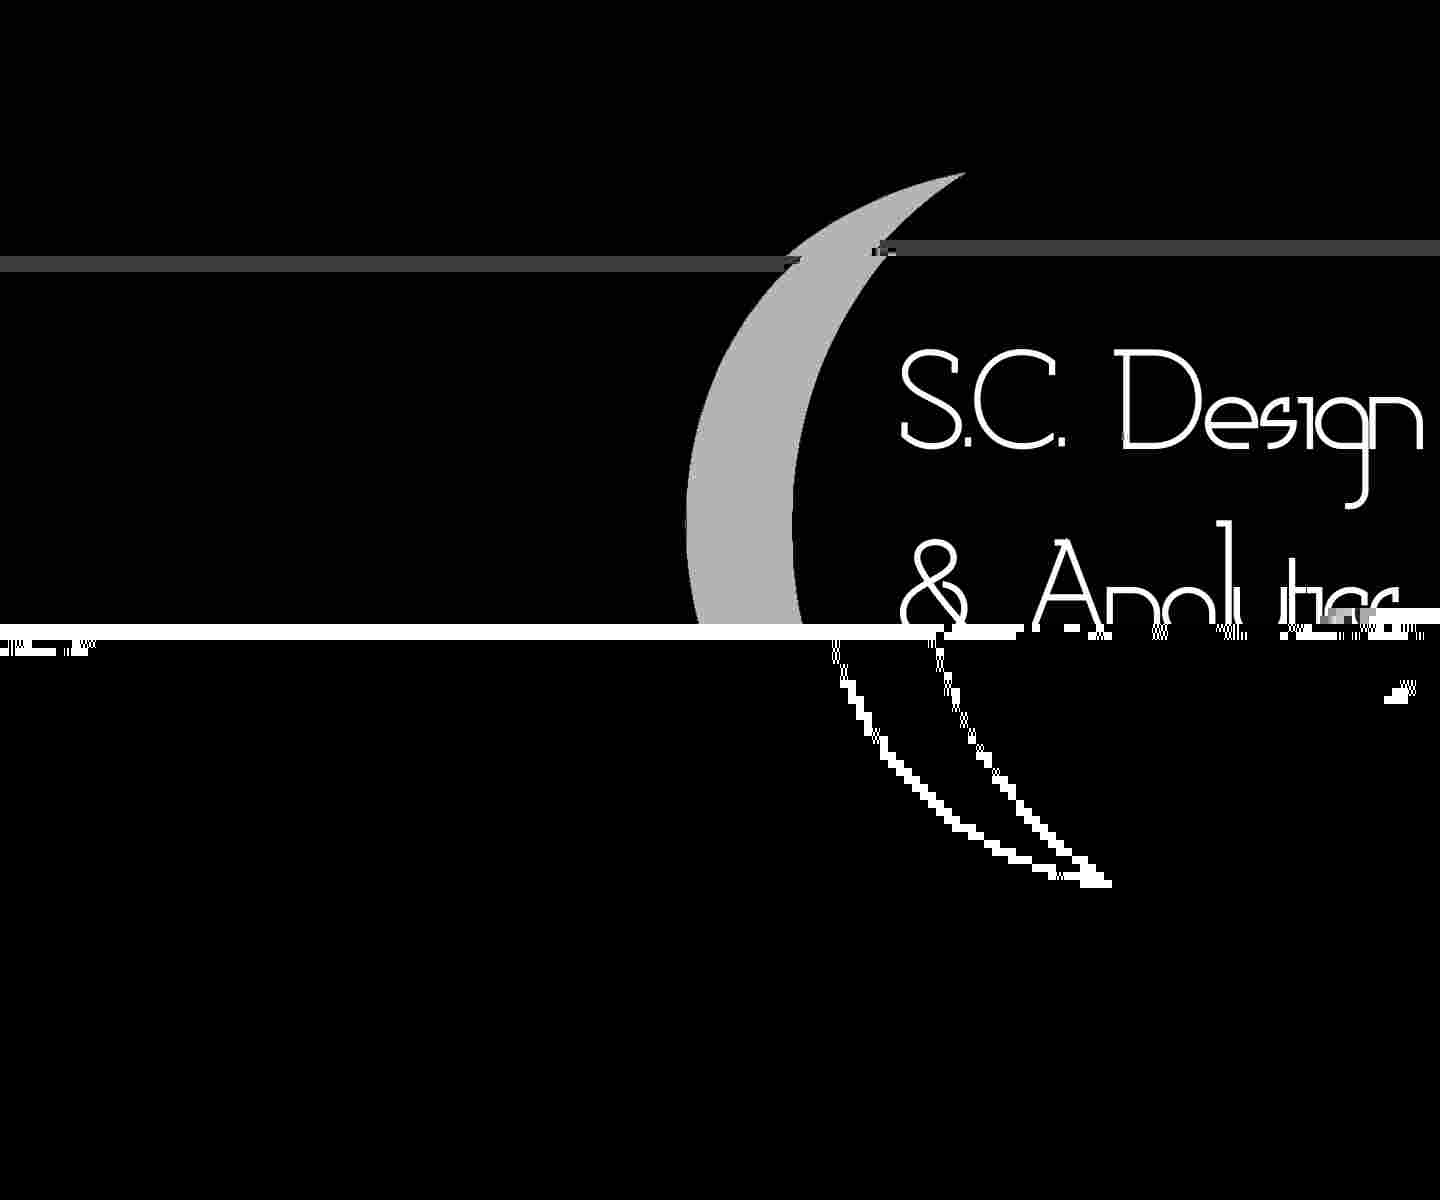
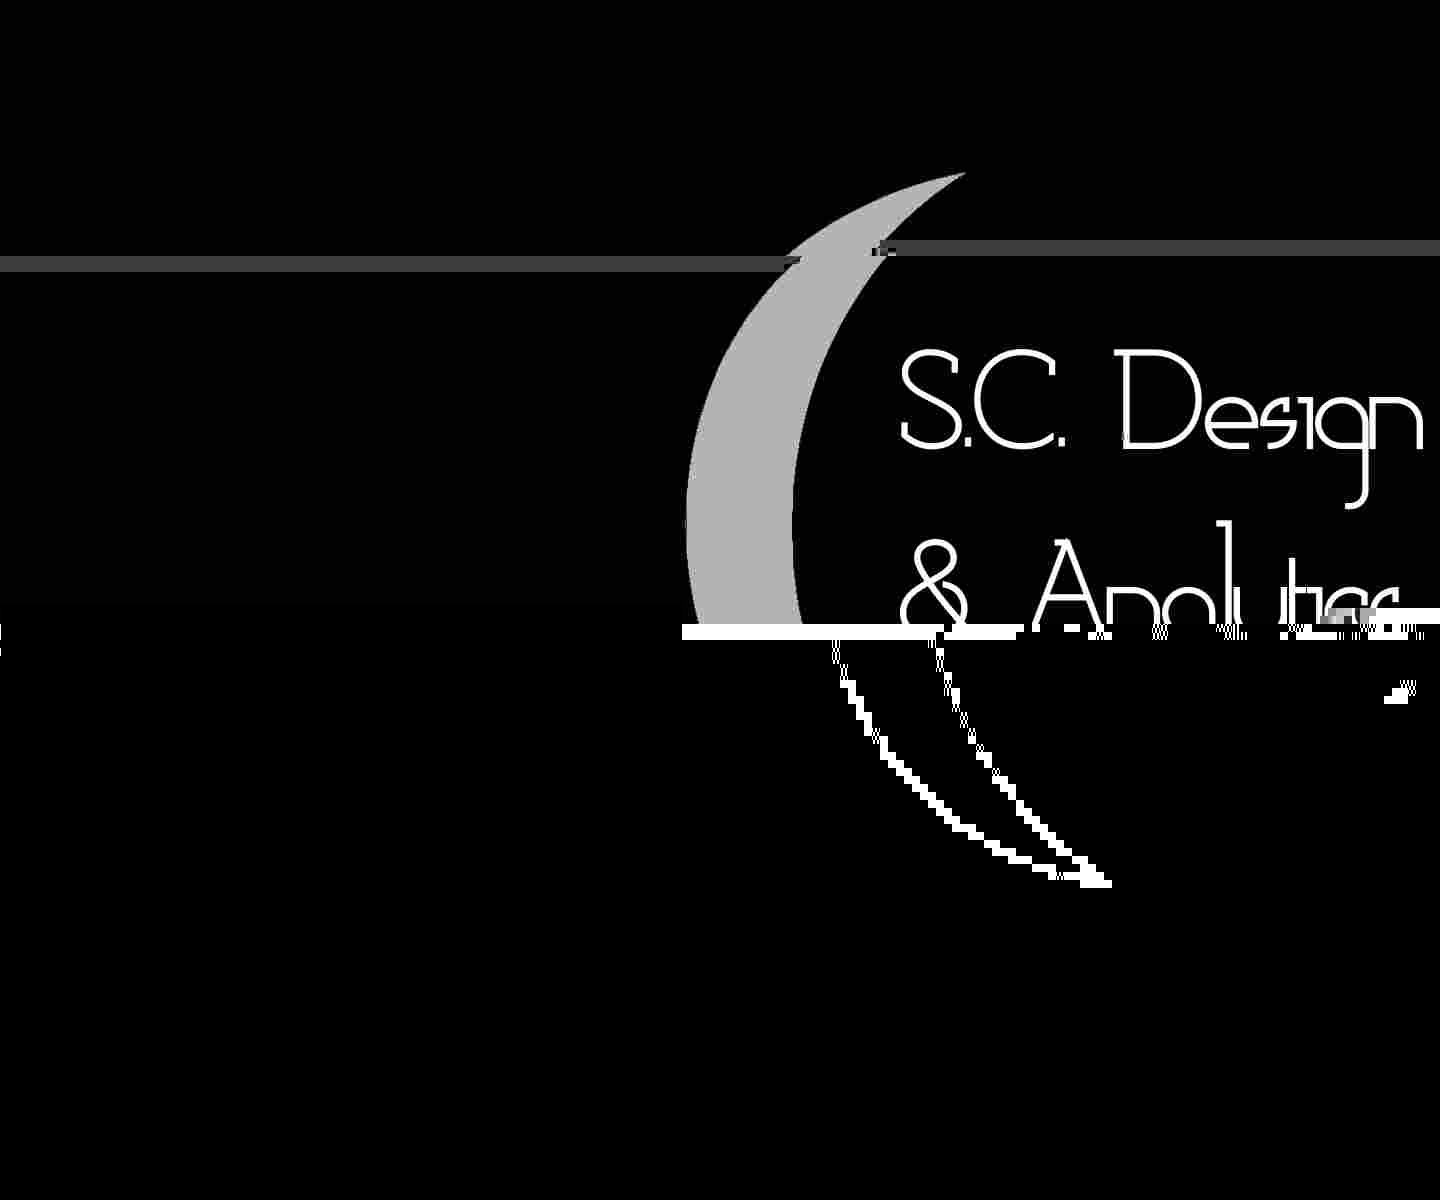
Updated moon background glitch images

Changed region(s): [[0.0, 0.4933, 0.4688, 0.555]]

diff --git a/index.html b/index.html
@@ -119,18 +119,6 @@
                             <li>
                                 <a href="#gallery">Gallery</a>
                             </li>
-                            <!--li>
-                                <a href="#services">Services</a>
-                            </li>
-                            <li>
-                                <a href="#testimonials">Testimonials</a>
-                            </li>
-                            <li>
-                                <a href="#clients">Clients</a>
-                            </li>
-                            <li>
-                                <a href="#pricing">Pricing</a>
-                            </li-->
                         </ul>
                     </nav>
                     <!--End of Main Navigation-->
@@ -319,10 +307,14 @@
 
                 <div class="col-2" style="padding-top: 80px;">
                     <div class="section-heading">
+                        <h2 class="section-title gray-txt">Parasite Extinction Assessment and Red List web app - <b>Coming soon</b></h2>
+                        <p class="section-subtitle gray-txt">Preprint coming soon</p>
+                    </div>
+                    <!--div class="section-heading">
                         <h2 class="section-title gray-txt">Parasite Vulnerability to Climate Change: an Evidence-Based Functional Trait Approach</h2>
                         <p class="section-subtitle gray-txt">Cizauskas et al. 2017</p>
                     </div>
-                    <p class="gray-txt"><strong>DOI: </strong>10.1098/rsos.160535</p>
+                    <p class="gray-txt"><strong>DOI: </strong>10.1098/rsos.160535</p-->
                     <!-- Just replace the Video ID "UYJ5IjBRlW8" with the ID of your video on YouTube (Found within the URL) -->
                     <!--a href="#" data-videoid="UYJ5IjBRlW8" data-videosite="youtube" class="button video link-lightbox">
                         WATCH VIDEO <i class="fa fa-play" aria-hidden="true"></i>
@@ -338,230 +330,11 @@
             <div style="height: 400px"></div>
 
         </div>
-        <!--End of Content Section-->
-
-        <!--Testimonials>
-        <aside id="testimonials" class="scrollto text-center" data-enllax-ratio=".2">
-
-            <div class="row clearfix">
-
-                <div class="section-heading">
-                    <h3>FEEDBACK</h3>
-                    <h2 class="section-title">What our customers are saying</h2>
-                </div>
-
-                <!--User Testimonial>
-                <blockquote class="col-3 testimonial classic">
-                    <img src="images/user-images/user-1.jpg" alt="User"/>
-                    <q>Lorem ipsum dolor sit amet, consectetur adipiscing elit, sed do eiusmod tempor incididunt ut
-                        labore
-                        et dolore magna aliqua</q>
-                    <footer>John Doe - Happy Customer</footer>
-                </blockquote>
-                <!-- End of Testimonial>
-
-                <!--User Testimonial>
-                <blockquote class="col-3 testimonial classic">
-                    <img src="images/user-images/user-2.jpg" alt="User"/>
-                    <q>Lorem ipsum dolor sit amet, consectetur adipiscing elit, sed do eiusmod tempor incididunt ut
-                        labore
-                        et dolore magna aliqua</q>
-                    <footer>Roslyn Doe - Happy Customer</footer>
-                </blockquote>
-                <!-- End of Testimonial>
-
-                <!--User Testimonial>
-                <blockquote class="col-3 testimonial classic">
-                    <img src="images/user-images/user-3.jpg" alt="User"/>
-                    <q>Lorem ipsum dolor sit amet, consectetur adipiscing elit, sed do eiusmod tempor incididunt ut
-                        labore
-                        et dolore magna aliqua</q>
-                    <footer>Thomas Doe - Happy Customer</footer>
-                </blockquote>
-                <!-- End of Testimonial>
-
-            </div>
-
-        </aside>
-        <!--End of Testimonials-->
-
-        <!--Clients>
-        <section id="clients" class="scrollto clearfix">
-            <div class="row clearfix">
-
-                <div class="col-3">
-
-                    <div class="section-heading">
-                        <h3>TRUST</h3>
-                        <h2 class="section-title">Companies who use our services</h2>
-                        <p class="section-subtitle">Lorem ipsum dolor sit amet, consectetur adipiscing elit, sed do
-                            eiusmod
-                            tempor incididunt ut labore et dolore magna aliqua. Ut enim ad minim veniam!</p>
-                    </div>
-
-                </div>
-
-                <div class="col-2-3">
-
-                    <a href="#" class="col-3">
-                        <img src="images/company-images/company-logo1.png" alt="Company"/>
-                        <div class="client-overlay"><span>Tree</span></div>
-                    </a>
-                    <a href="#" class="col-3">
-                        <img src="images/company-images/company-logo2.png" alt="Company"/>
-                        <div class="client-overlay"><span>Fingerprint</span></div>
-                    </a>
-                    <a href="#" class="col-3">
-                        <img src="images/company-images/company-logo3.png" alt="Company"/>
-                        <div class="client-overlay"><span>The Man</span></div>
-                    </a>
-                    <a href="#" class="col-3">
-                        <img src="images/company-images/company-logo4.png" alt="Company"/>
-                        <div class="client-overlay"><span>Mustache</span></div>
-                    </a>
-                    <a href="#" class="col-3">
-                        <img src="images/company-images/company-logo5.png" alt="Company"/>
-                        <div class="client-overlay"><span>Goat</span></div>
-                    </a>
-                    <a href="#" class="col-3">
-                        <img src="images/company-images/company-logo6.png" alt="Company"/>
-                        <div class="client-overlay"><span>Justice</span></div>
-                    </a>
-                    <a href="#" class="col-3">
-                        <img src="images/company-images/company-logo7.png" alt="Company"/>
-                        <div class="client-overlay"><span>Ball</span></div>
-                    </a>
-                    <a href="#" class="col-3">
-                        <img src="images/company-images/company-logo8.png" alt="Company"/>
-                        <div class="client-overlay"><span>Cold</span></div>
-                    </a>
-
-                    <a href="#" class="col-3">
-                        <img src="images/company-images/company-logo9.png" alt="Company"/>
-                        <div class="client-overlay"><span>Cold</span></div>
-                    </a>
-
-                </div>
-
-            </div>
-        </section>
-        <!--End of Clients-->
-
-        <!--Pricing Tables>
-        <section id="pricing" class="secondary-color text-center scrollto clearfix ">
-            <div class="row clearfix">
-
-                <div class="section-heading">
-                    <h3>YOUR CHOICE</h3>
-                    <h2 class="section-title">We have the right package for you</h2>
-                </div>
-
-                <!--Pricing Block>
-                <div class="pricing-block col-3 wow fadeInUp" data-wow-delay="0.4s">
-                    <div class="pricing-block-content">
-                        <h3>Personal</h3>
-                        <p class="pricing-sub">The standard version</p>
-                        <div class="pricing">
-                            <div class="price"><span>$</span>19</div>
-                            <p>Lorem ipsum dolor sit amet, consectetur adipiscing elit</p>
-                        </div>
-                        <ul>
-                            <li>5 Downloads</li>
-                            <li>2 Extensions</li>
-                            <li>Tutorials</li>
-                            <li>Forum Support</li>
-                            <li>1 year free updates</li>
-                        </ul>
-                        <a href="#" class="button">BUY TODAY</a>
-                    </div>
-                </div>
-                <!--End Pricing Block>
-
-                <!--Pricing Block>
-                <div class="pricing-block featured col-3 wow fadeInUp" data-wow-delay="0.6s">
-                    <div class="pricing-block-content">
-                        <h3>Student</h3>
-                        <p class="pricing-sub">Most popular choice</p>
-                        <div class="pricing">
-                            <div class="price"><span>$</span>29</div>
-                            <p>Lorem ipsum dolor sit amet, consectetur adipiscing elit</p>
-                        </div>
-                        <ul>
-                            <li>15 Downloads</li>
-                            <li>5 Extensions</li>
-                            <li>Tutorials with Files</li>
-                            <li>Forum Support</li>
-                            <li>2 years free updates</li>
-                        </ul>
-                        <a href="#" class="button">BUY TODAY</a>
-                    </div>
-                </div>
-                <!--End Pricing Block>
-
-                <!--Pricing Block>
-                <div class="pricing-block col-3 wow fadeInUp" data-wow-delay="0.8s">
-                    <div class="pricing-block-content">
-                        <h3>Business</h3>
-                        <p class="pricing-sub">For the whole team</p>
-                        <div class="pricing">
-                            <div class="price"><span>$</span>49</div>
-                            <p>Lorem ipsum dolor sit amet, consectetur adipiscing elit</p>
-                        </div>
-                        <ul>
-                            <li>Unlimited Downloads</li>
-                            <li>Unlimited Extensions</li>
-                            <li>HD Video Tutorials</li>
-                            <li>Chat Support</li>
-                            <li>Lifetime free updates</li>
-                        </ul>
-                        <a href="#" class="button">BUY TODAY</a>
-                    </div>
-                </div>
-                <!--End Pricing Block>
-
-            </div>
-        </section>
-        <!--End of Pricing Tables-->
-
-    <!--/main-->
-    <!--End Main Content Area-->
-
-
     <!--Footer-->
     <footer id="landing-footer" class="clearfix">
         <div class="row clearfix">
 
             <p id="copyright" class="col-2">Site layout originally created by <a href="https://www.shapingrain.com">ShapingRain</a> with <strong>S.C. Web Design &amp; Analytics customization</strong></p>
-
-            <!--Social Icons in Footer-->
-            <!--ul class="col-2 social-icons">
-                <li>
-                    <a target="_blank" title="Facebook" href="https://www.facebook.com/username">
-                        <i class="fa fa-facebook fa-1x"></i><span>Facebook</span>
-                    </a>
-                </li>
-                <li>
-                    <a target="_blank" title="Google+" href="http://google.com/+username">
-                        <i class="fa fa-google-plus fa-1x"></i><span>Google+</span>
-                    </a>
-                </li>
-                <li>
-                    <a target="_blank" title="Twitter" href="http://www.twitter.com/username">
-                        <i class="fa fa-twitter fa-1x"></i><span>Twitter</span>
-                    </a>
-                </li>
-                <li>
-                    <a target="_blank" title="Instagram" href="http://www.instagram.com/username">
-                        <i class="fa fa-instagram fa-1x"></i><span>Instagram</span>
-                    </a>
-                </li>
-                <li>
-                    <a target="_blank" title="behance" href="http://www.behance.net">
-                        <i class="fa fa-behance fa-1x"></i><span>Behance</span>
-                    </a>
-                </li>
-            </ul-->
-            <!--End of Social Icons in Footer-->
         </div>
     </footer>
     <!--End of Footer-->
@@ -582,7 +355,6 @@
 <script src="js/images-loaded.min.js"></script>
 <script src="js/lightbox.min.js"></script>
 <script src="js/site.js"></script>
-
 
 </body>
 </html>

diff --git a/css/namari-color.css b/css/namari-color.css
@@ -130,8 +130,8 @@ a:hover, #header.nav-solid nav a:hover {
 
 #banner {
     /*background: url("../images/banner-images/banner-image-1.jpg") no-repeat center top;*/
-    /*background: url("../images/banner-images/banner-invert.jpg") no-repeat center top;*/
-    background: url("../images/banner-images/banner-moon3.png") no-repeat center top;
+    background: url("../images/banner-images/banner-moon-light.png") no-repeat center top;
+    /*background: url("../images/banner-images/banner-moon3.png") no-repeat center top;*/
     background-size:cover;
 }
 
